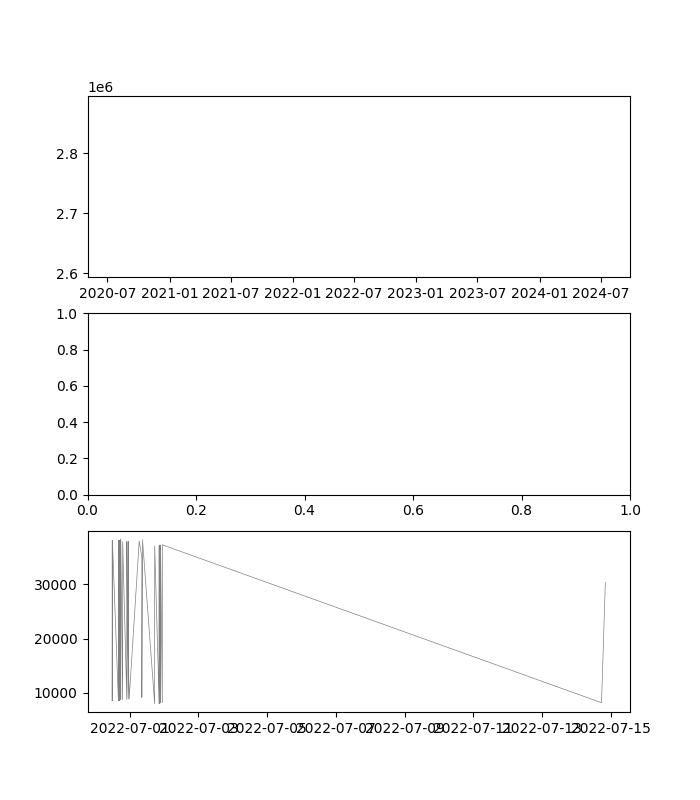
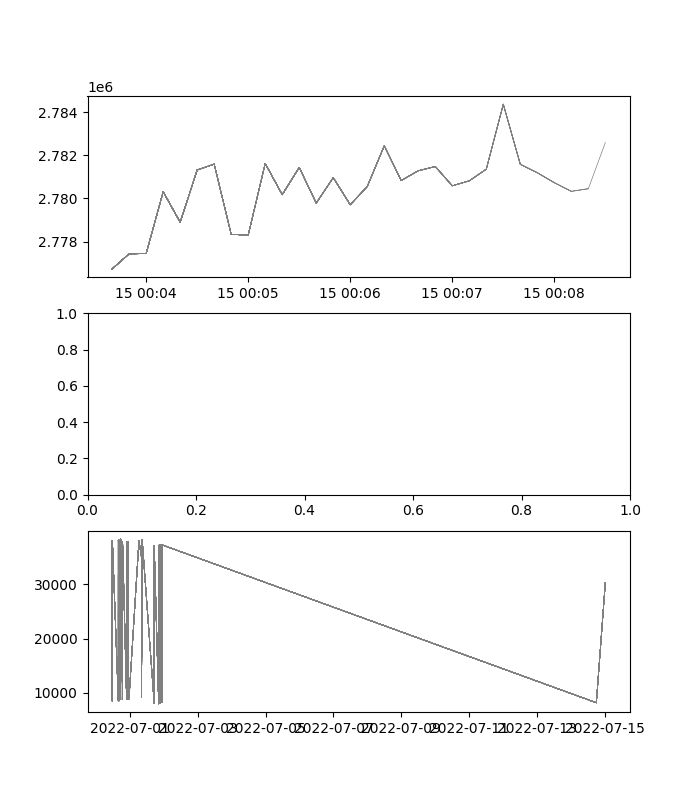
10秒足

diff --git a/api/coincheck_api.py b/api/coincheck_api.py
@@ -1,10 +1,5 @@
-#!/usr/bin/env python
-# coding: utf-8
-
-# In[ ]:
-
-
 import datetime
+from math import floor
 import time
 import json
 import hmac
@@ -34,6 +29,7 @@ class Path:
     trades='/api/trades'
     order='/api/exchange/orders'
     balance='/api/accounts/balance'
+    #transaction='/api/exchange/orders/transactions'
     transaction='/api/exchange/orders/transactions'
     cancel_status='/api/exchange/orders/cancel_status'
     unsettled_order='/api/exchange/orders/opens'
@@ -43,7 +39,7 @@ class WebsocketClient:
         self.pair='btc_jpy'
         #time_scale_list=[1,5,15,30]
         self.WURL='wss://ws-api.coincheck.com/'
-        self.storage_term=60 #保存期間
+        self.storage_term=[10, 60, 300, 900] #保存期間
         self.request_json = json.dumps({
             'type':'subscribe', 
             'channel':'btc_jpy-trades'
@@ -98,22 +94,19 @@ class WebsocketClient:
             now=datetime.datetime.now()
             self.start_time=datetime.datetime(
                 now.year, now.month, now.day,
-                now.hour, now.minute, 0
+                now.hour, now.minute, floor(now.second/10)*10
             )
             self.end_time=datetime.datetime(
                 now.year, now.month, now.day,
-                now.hour, now.minute, 0
-            )+datetime.timedelta(minutes=1)
+                now.hour, now.minute, floor(now.second/10)*10
+            )+datetime.timedelta(seconds=10)
             while datetime.datetime.now() < self.end_time:
-                time.sleep(1)
+                time.sleep(0.5)
             self.lock.acquire() #施錠
-            self.crypto.cast_ohlcv(self.start_time)
-            print(self.crypto.ohlcv[-1:])
+            self.crypto.cast_ohlcv(self.start_time, self.end_time)
+            print(self.crypto.ohlcv)
+            self.crypto.forget_trade()
             self.lock.release() #施錠
-            #self.plot_graph()
-            #if len(self.ohlcv) >= 15:
-            #    self.calculate_bb()
-            #    print(self.bb)
 
 class HttpClient(WebsocketClient):
     def __init__(self, websocket_client):
@@ -223,21 +216,21 @@ class HttpClient(WebsocketClient):
         return requests.get(
             self.URL+path
         ).json()
-    
+
     def get_trade_list(
         self,
-        limit=None,
+        limit=100,
         order='desc',
         starting_after=None,
         ending_before=None
     ):
         path=Path.trades
         params={
+            'pair':self.pair,
             'limit':limit,
-            'starting_before':starting_after,
-            'ending_after':ending_before,
-            'order':order,
-            'pair':self.pair
+            'starting_after':starting_after,
+            'ending_before':ending_before,
+            'order':order
         }
         return requests.get(
             self.URL+path,
@@ -250,16 +243,17 @@ class HttpClient(WebsocketClient):
                 break
             dt=trades['Datetime'].iloc[0]
             start_time=datetime.datetime(
-                year=dt.year, month=dt.month, day=dt.day,
-                hour=dt.hour, minute=dt.minute, second=0)
-            end_time=start_time+datetime.timedelta(minutes=1)
+                dt.year, dt.month, dt.day,
+                dt.hour, dt.minute, floor(dt.second/10)*10)
+            end_time=start_time+datetime.timedelta(seconds=10)
             self.crypto.trade=trades.query('@start_time <= Datetime < @end_time')
             trades=trades.query('@end_time <= Datetime')
             print(start_time)
             print(self.crypto.trade)
             if len(trades) != 0:
-                self.crypto.cast_ohlcv(start_time)
                 trades.reset_index()
+                self.crypto.cast_ohlcv(start_time, end_time)
+                self.crypto.forget_trade()
             else:
                 pass
 

diff --git a/api/model/crypto.py b/api/model/crypto.py
@@ -1,9 +1,3 @@
-#!/usr/bin/env python
-# coding: utf-8
-
-# In[ ]:
-
-
 from xml.sax.handler import property_dom_node
 from xmlrpc.client import _datetime_type
 import json
@@ -14,6 +8,11 @@ import numpy as np
 import pandas as pd
 
 class Crypto:
+    """
+    メソッド:
+        form_xx():  受け取った生データをdict型データへ変換する
+        cast_xx():  DataFrame型データから他のDataFrame型データを計算する
+    """
     class Column:
         trade = [
             'Datetime',
@@ -90,7 +89,7 @@ class Crypto:
 
     def __init__(
         self,
-        time_scale=1,
+        time_scale=60,
     ):
         self.time_scale = time_scale #時間足　(秒)
         self.trade = pd.DataFrame(columns=self.Column.trade)
@@ -106,10 +105,10 @@ class Crypto:
 
     def forget_trade(self):
         self.lock.acquire()
-        self.crypto.trade=pd.DataFrame(columns=self.Column.trade)
+        self.trade=pd.DataFrame(columns=self.Column.trade)
         self.lock.release()
 
-    def form_trade(self, message):
+    def form_trade(self, message): #websocketで受け取ったmessageを変換
         datetime_=datetime.datetime.now()
         element=message.strip('[ ]').replace('"', '').split(',')
         trade_dict={
@@ -140,7 +139,8 @@ class Crypto:
 
     def cast_ohlcv(
         self,
-        start_time
+        start_time,
+        end_time
     ):
         datetime_=start_time
         if len(self.trade) == 0:
@@ -164,7 +164,6 @@ class Crypto:
             self.ohlcv=self.ohlcv.append(
                 self.ohlcv_dict,
                 ignore_index=True)
-            return 0
             
 
     def cast_bb(
@@ -186,8 +185,6 @@ class Crypto:
             'mBB':m_bb,
         }
         return bb_dict
-
-
 
 '''
     def add_ohlcv(

diff --git a/krake.py b/krake.py
@@ -56,8 +56,7 @@ class Brain:
         self.cchc.account.balance=self.cchc.account.balance.reset_index(drop=True)
         print(self.cchc.account.balance)
         trade_list=self.cchc.get_trade_list(
-            limit=100,
-        )
+            limit=100,)
         trade_df, start_id, end_id = self.cchc.crypto.form_trade_list(trade_list)
         self.cchc.split_trades_into_ohlcv(trade_df)
         print(self.cchc.crypto.ohlcv.tail(20))
@@ -121,7 +120,10 @@ class Brain:
         print('送信結果:')
         print(str(send_result))
 
-
+    def draw(self):
+        while True:
+            time.sleep(5)
+            self.plot_graph()
 
     def plot_graph(self):
         path='graph.png'
@@ -143,6 +145,7 @@ class Brain:
         with ThreadPoolExecutor(max_workers=3) as executor:
             executor.submit(self.cchc.connect)
             executor.submit(self.cchc.cast)
+            executor.submit(self.draw)
             #executor.submit(self.gui.main)
             #executor.submit(self.logger.logger)
 
@@ -153,6 +156,14 @@ def main():
         KEY.COINCHECK_API_SECRET,
         KEY.LINE_API_TOKEN,
     )
+    trade_dict_list=brain.cchc.get_trade_list(
+        limit=100,
+        order='desc',
+        starting_after=None,
+        ending_before=None
+    )
+    for trade_dict in trade_dict_list:
+        print(trade_dict)
     brain.initialize_table()
     brain.plot_graph()
     brain.dominate()
